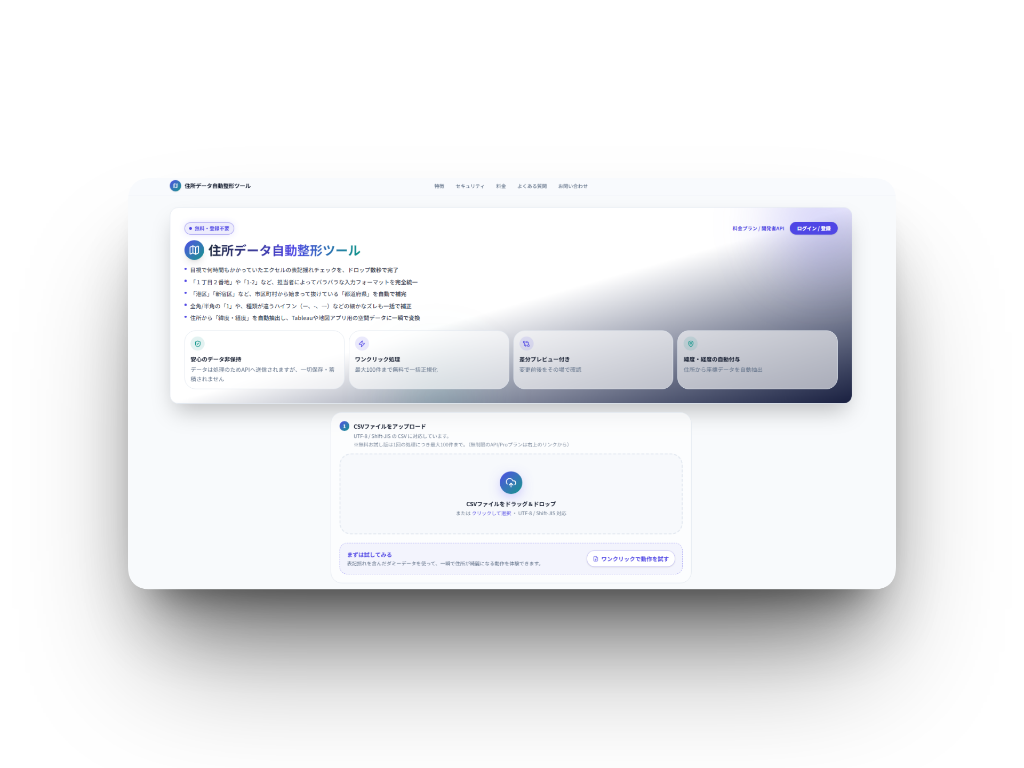
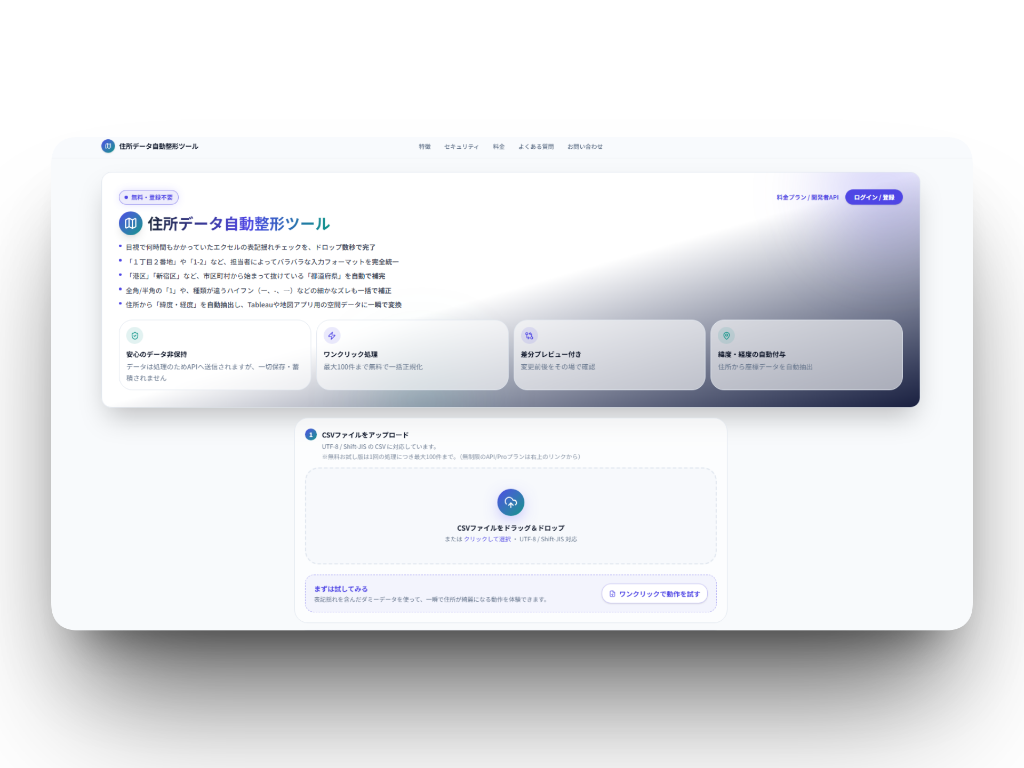
Update address tool screenshot with new size and refine card styling

Changed region(s): [[0.0, 0.1875, 1.0, 0.9688], [0.5, 0.1875, 0.5938, 0.25]]

diff --git a/app/page.tsx b/app/page.tsx
@@ -48,11 +48,11 @@ export default function Page() {
         <div className="grid gap-8 sm:grid-cols-2 lg:grid-cols-3">
           {/* Product 1: Address Tool */}
           <div className="group flex flex-col overflow-hidden rounded-2xl border border-border bg-surface transition-all duration-300 hover:border-brand/50 hover:shadow-xl hover:-translate-y-1">
-            <div className="relative aspect-video w-full overflow-hidden bg-muted/30 border-b border-border/50">
+            <div className="relative aspect-video w-full overflow-hidden bg-muted/30 border-b border-border/50 p-2">
               <img 
                 src="/address-tool-screenshot.png" 
                 alt="住所データ一括正規化ツール" 
-                className="w-full h-full object-cover object-top transition-transform duration-500 group-hover:scale-105"
+                className="w-full h-full object-cover rounded-xl transition-transform duration-500 group-hover:scale-105"
               />
             </div>
             <div className="flex flex-1 flex-col p-6 sm:p-8">
